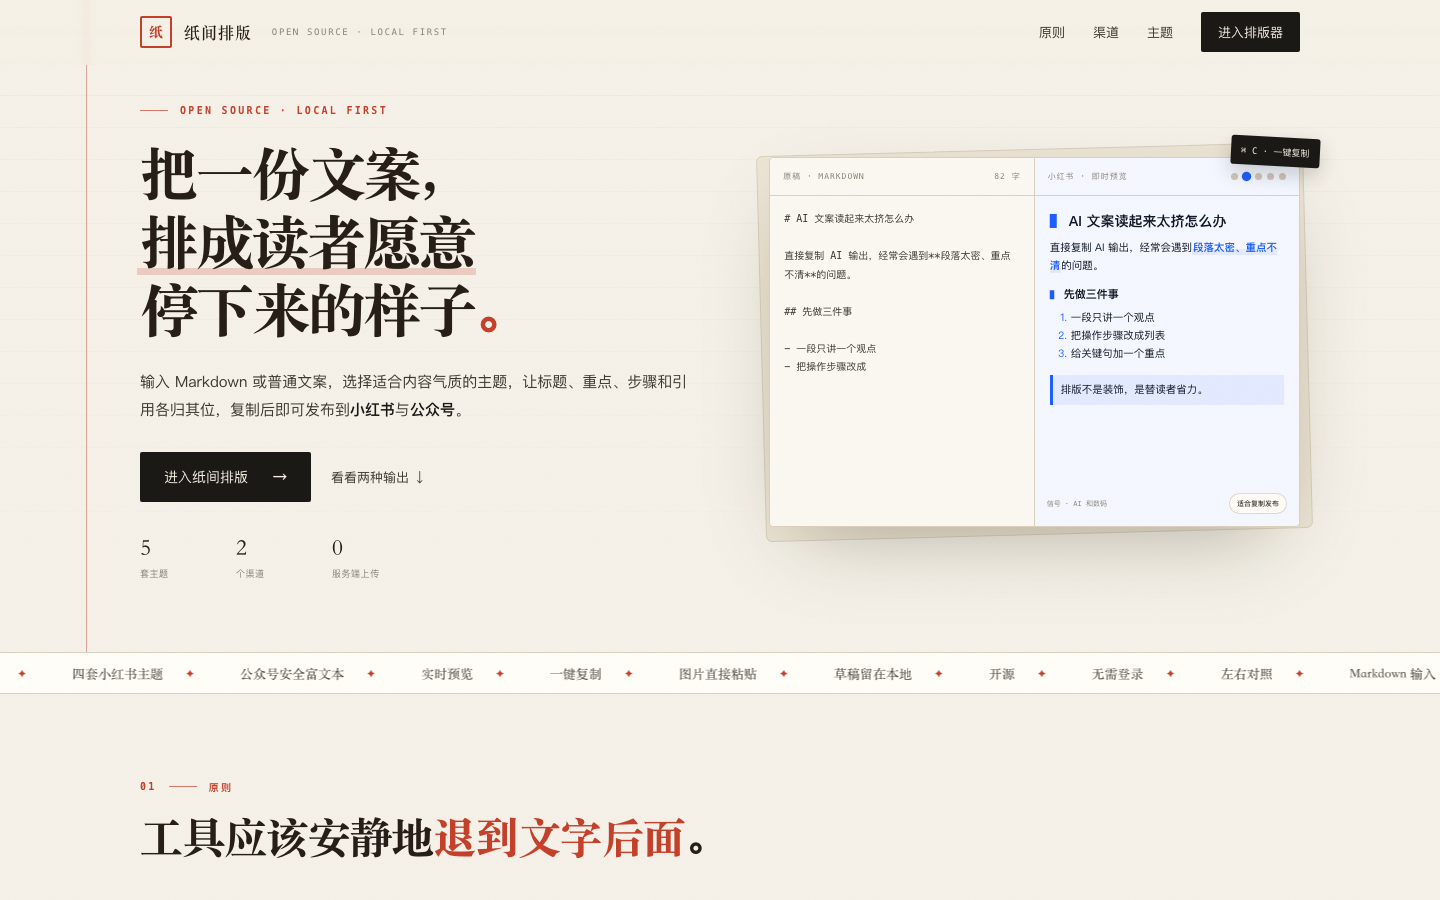
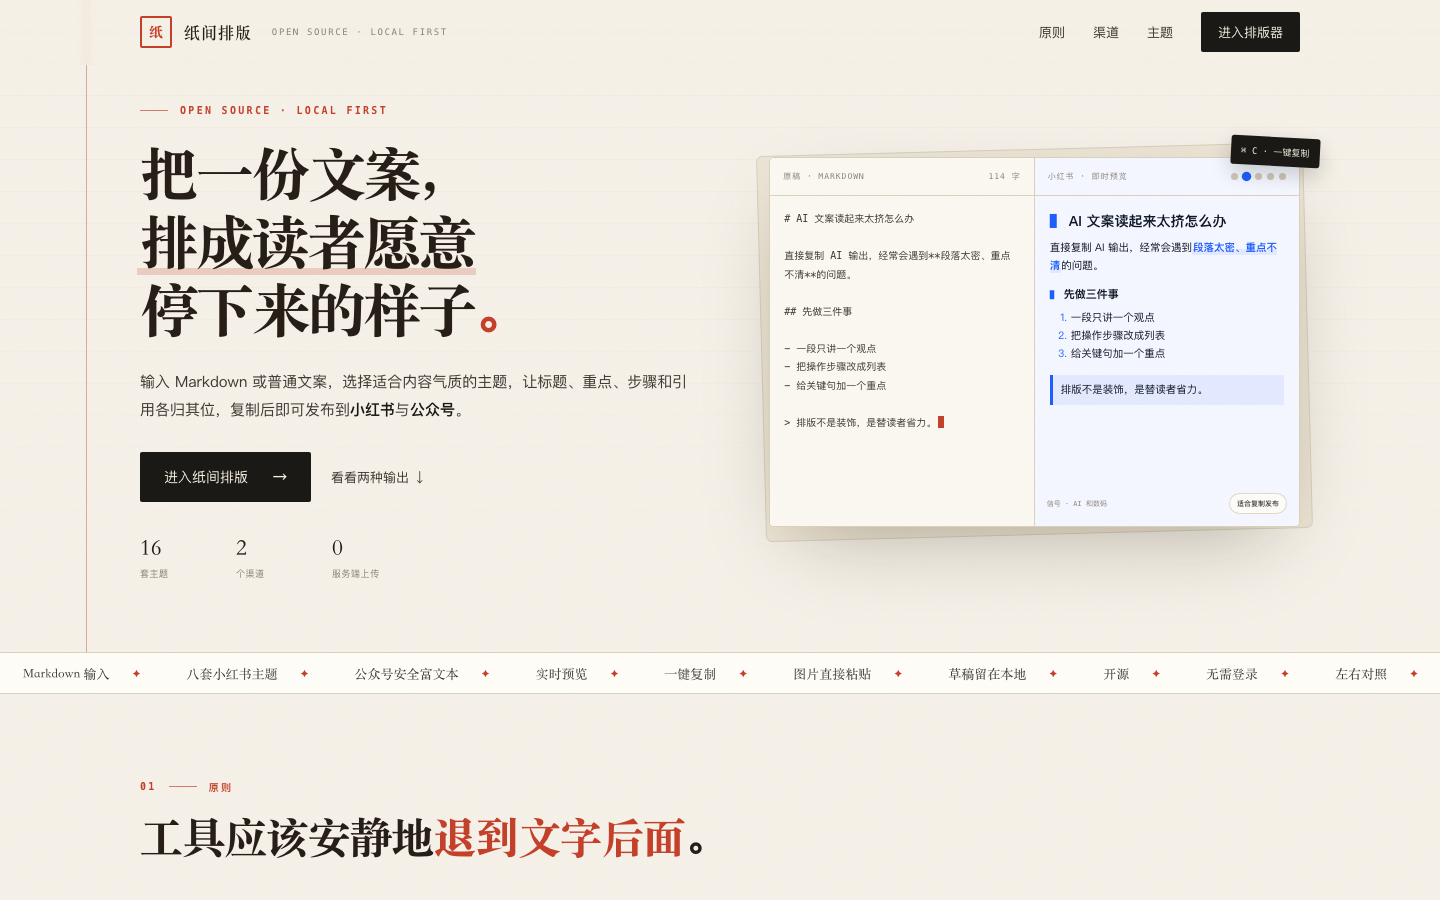
docs: 更新 README 主题一览与截图
- 新增小红书 8 套主题、公众号 8 套版式气质与 7 种标题样式对照表
- 重新截取首页、公众号桌面与移动端截图，新增样式工坊截图
- 修正 README 中与实现不符的描述，补充 Node.js 版本要求，克隆地址改为 HTTPS
- 纸间主题分隔线改用常见字体可显示的符号
- 首页主题数量改为 16 套
- CONTRIBUTING 补充新增版式气质与标题样式的步骤

diff --git a/src/core/themes.ts b/src/core/themes.ts
@@ -50,7 +50,7 @@ const themeDefinitions = [
       unorderedBullet: '·',
       orderedStyle: 'circled',
       quotePrefix: '纸间记｜',
-      divider: '𓂃 𓈒𓏸',
+      divider: '· ✧ · ✧ ·',
       strongOpen: '﹝',
       strongClose: '﹞',
       emphasisOpen: '（',

diff --git a/README.md b/README.md
@@ -10,9 +10,8 @@
 - 清简、信号、纸间、步序、元气、简报、札记、问答八套结构化排版主题
 - 小红书本地结构体检与一键整理，可撤销原始文案
 - 小红书标题、正文、话题分区复制与整篇复制
-- 微信公众号“编辑部手记”富文本主题与样式工坊
-- 8 套版式气质、7 种标题样式，可调字体、字号、行距、主题色和代码样式
-- 公众号可用 `==重点==` 添加选择性朱砂下划线，小红书输出会自动移除标记符号
+- 微信公众号富文本样式工坊：8 套版式气质、7 种标题样式，可再微调字体、字号、行距、主题色和代码明暗
+- 公众号可用 `==重点==` 添加主题色重点下划线，小红书输出会自动移除标记符号
 - 步骤教程、实用清单、产品测评三个内容模板
 - 标题、列表、任务列表、引用、重点、代码、表格、行内/引用式链接、图片说明、脚注和话题转换
 - 字数、段落、标题、话题统计；小红书按最终发布文本执行 1000 字门禁
@@ -23,17 +22,57 @@
 
 公众号输出使用经过约束的内联样式 HTML，剪贴板同时写入 `text/html` 与 `text/plain`，可直接粘贴到公众号编辑器继续调整。
 
-![公众号编辑部手记主题](./docs/wechat-editorial-desktop.png)
+![公众号排版工作台](./docs/wechat-editorial-desktop.png)
 
 <details>
   <summary>查看 375px 移动端公众号预览</summary>
   <img src="./docs/wechat-editorial-mobile.png" width="375" alt="纸间排版移动端公众号主题预览" />
 </details>
 
+## 主题一览
+
+### 小红书：8 套结构化主题
+
+小红书不支持颜色和字号，主题靠标题前缀、列表符号、强调括注和分隔线建立层级。下表是同一段 Markdown（小标题“小节”、加粗“关键”）在各主题下的实际输出：
+
+| 主题 | 适合 | 小标题 | 强调 | 无序 / 有序 | 引用 | 分隔线 |
+| --- | --- | --- | --- | --- | --- | --- |
+| 清简 | 知识、观点 | `01｜小节` | `「关键」` | `•` / `①` | `摘录｜` | `······` |
+| 信号 | AI、数码教程 | `▌ 小节` | `【关键】` | `→` / `❶` | `⌁ 提示｜` | `─── NOTE ───` |
+| 纸间 | 生活方式 | `✦ 小节` | `﹝关键﹞` | `·` / `①` | `纸间记｜` | `· ✧ · ✧ ·` |
+| 步序 | 清单、操作教程 | `步骤01｜小节` | `重点「关键」` | `✓` / `1⃣` | `注意｜` | `— 操作分隔 —` |
+| 元气 | 好物种草、探店 | `📍 小节` | `✨关键✨` | `✅` / `1⃣` | `💬 ` | `✨ ✨ ✨` |
+| 简报 | 职场干货、复盘 | `PART01 · 小节` | `『关键』` | `▸` / `1.` | `▍结论｜` | `━━━━━━━━` |
+| 札记 | 读书、随笔 | `§ 小节` | `〖关键〗` | `◦` / `1.` | `书摘｜` | `❀ ❀ ❀` |
+| 问答 | 科普、经验答疑 | `Q01. 小节` | `【关键】` | `◆` / `❶` | `A｜` | `· · · · · ·` |
+
+文首标题作为笔记标题，不占用小标题编号，正文小标题始终从 01 开始；符号类主题会保留标题符号。
+
+### 公众号：8 套版式气质 + 7 种标题样式
+
+样式工坊先选一套完整气质，再单独调整任一参数。所有样式都以内联 CSS 输出，粘贴到公众号编辑器后基本保持原样，发布前仍建议在手机预览中检查。
+
+| 版式气质 | 正文字体 | 字号 / 行距 | 主题色 | 标题样式 | 代码块 |
+| --- | --- | --- | --- | --- | --- |
+| 经典手记 | 无衬线 | 16 / 1.90 | 朱砂红 `#b44735` | 短线 | 深色墨块 |
+| 东方书页 | 无衬线 | 16 / 1.90 | 陶朱红 `#a84535` | 通栏 | 浅色纸面 |
+| 雅致长文 | 衬线 | 17 / 2.05 | 玫瑰金 `#a35f6f` | 通栏 | 浅色纸面 |
+| 清爽简报 | 无衬线 | 15 / 1.75 | 墨绿 `#2f6f68` | 侧标 | 浅色纸面 |
+| 技术蓝调 | 无衬线 | 15 / 1.75 | 经典蓝 `#185687` | 章签 | 深色墨块 |
+| 黑白杂志 | 衬线 | 16 / 1.90 | 石墨黑 `#363636` | 序号 | 浅色纸面 |
+| 森林笔记 | 无衬线 | 16 / 1.90 | 橄榄绿 `#5d7039` | 卡片 | 浅色纸面 |
+| 薰衣草信笺 | 衬线 | 17 / 2.05 | 薰衣紫 `#8d5c7d` | 留白 | 浅色纸面 |
+
+标题样式：短线、章签、侧标、通栏、留白、卡片、序号。预置主题色在白底上的对比度都不低于 4.5:1，也可以用取色器自定义。
+
+![公众号样式工坊](./docs/wechat-style-workshop.png)
+
 ## 快速开始
 
+需要 Node.js 22.12 或更高版本。
+
 ```bash
-git clone git@github.com:smilexiaobao1992/zhijian-copy-studio.git
+git clone https://github.com/smilexiaobao1992/zhijian-copy-studio.git
 cd zhijian-copy-studio
 npm install
 npm run dev
@@ -79,7 +118,7 @@ type ContentDocument = {
 
 | mdast 节点 | 小红书输出规则 |
 | --- | --- |
-| `heading` | 根据主题生成标题前缀，再渲染行内内容 |
+| `heading` | 根据主题生成标题前缀，再渲染行内内容；文首标题不占小标题编号 |
 | `paragraph` | 渲染文字、重点、链接、行内代码等行内节点 |
 | `list` / `listItem` | 根据有序、无序、任务状态选择主题标记，并保持嵌套缩进 |
 | `blockquote` | 给引用内容的每一行添加主题引用前缀 |
@@ -92,7 +131,7 @@ type ContentDocument = {
 
 行内渲染器支持 `text`、`strong`、`emphasis`、`delete`、`inlineCode`、`break`、`link`、`linkReference`、`image`、`imageReference` 和脚注引用。完整式、折叠式和快捷式引用链接都通过定义索引解析；链接保留可见文字和 URL，图片退化为可读的图片说明，不尝试上传或嵌入资源。
 
-公众号由 `renderWechat(document, theme, styleConfig, assets)` 遍历同一棵 mdast，生成带内联样式的标题、段落、步骤、引用、表格、代码块和脚注。`theme` 定义安全的基础视觉协议，`styleConfig` 只允许经过 Zod 校验的字体、字号、行距、六位十六进制主题色、标题样式和代码明暗。用户文字先进行 HTML 转义，行内链接与引用式链接都只允许 `http`、`https`、`mailto`、`tel` 和页内锚点协议；除用于表格换行的单个 `<br>` 外，原始 HTML 一律丢弃。编辑器支持选择图片或把剪贴板图片直接粘进 Markdown；图片保存在浏览器 IndexedDB，预览与复制时才通过受控的 `assets` 映射还原成自包含 `<img>`。远程图片仍只保留为插图位置说明，不在预览阶段加载。
+公众号由 `renderWechat(document, theme, styleConfig, assets)` 遍历同一棵 mdast，生成带内联样式的标题、段落、步骤、引用、表格、代码块和脚注。`theme` 定义安全的基础视觉协议，`styleConfig` 只允许经过 Zod 校验的字体、字号、行距、六位十六进制主题色、标题样式和代码明暗。用户文字先进行 HTML 转义，行内链接与引用式链接都只允许 `http`、`https`、`mailto`、`tel` 和页内锚点协议；除单个 `<br>` 换行外，原始 HTML 一律丢弃。编辑器支持选择图片或把剪贴板图片直接粘进 Markdown；图片保存在浏览器 IndexedDB，预览与复制时才通过受控的 `assets` 映射还原成自包含 `<img>`。远程图片仍只保留为插图位置说明，不在预览阶段加载。
 
 ### 3. 主题是经过校验的规则对象
 
@@ -104,7 +143,9 @@ type ContentDocument = {
   unorderedBullet: '→',
   orderedStyle: 'filled',
   quotePrefix: '⌁ 提示｜',
-  divider: '— · — · —'
+  divider: '─── NOTE ───',
+  strongOpen: '【',
+  strongClose: '】',
 }
 ```
 
@@ -156,7 +197,7 @@ Markdown ──> mdast ──┬──> render-xhs.ts     ──> 纯文本
 | 文档核心 | TypeScript + unified/remark：解析 mdast 和渠道渲染 |
 | 主题协议 | Zod：运行时校验主题配置与本地草稿结构 |
 | 性能策略 | `useDeferredValue` + `useMemo`：避免输入时重复计算 |
-| 本地存储 | `localStorage`：多笔记 V2、旧稿迁移、420ms 防抖与 JSON 备份 |
+| 本地存储 | `localStorage`：多笔记 V2、旧稿迁移、420ms 防抖与 JSON 备份；IndexedDB：本地图片 |
 | 样式系统 | CSS Modules + 全局设计 Token |
 | 质量保障 | Vitest + Astro Check + Playwright |
 
@@ -166,8 +207,8 @@ Markdown ──> mdast ──┬──> render-xhs.ts     ──> 纯文本
 
 ```text
 docs/                     README 截图等仓库资料
-src/core/                 文档解析、双渠道主题协议、渲染器与测试
-src/features/editor/      React 编辑工作台、模板和本地草稿
+src/core/                 文档解析、双渠道主题协议、内容模板、渲染器与测试
+src/features/editor/      React 编辑工作台、本地笔记与图片存储
 src/layouts/              SEO/GEO 元数据与页面壳
 src/pages/                Astro 页面、静态路由与发现文件
 src/styles/               全局 Token 与页面样式
@@ -218,9 +259,9 @@ SITE_URL=https://example.com npm run build
 
 ## Roadmap
 
-- 更多公众号主题与段落组件
-- 本地图片随 JSON 备份导出与恢复
-- 更多可组合主题与内容模板
+- 公众号段落组件（提示框、对比卡片、作者签名等）
+- 本地图片随 JSON 备份导出与恢复，删除笔记时清理无用图片
+- 更多内容模板
 - 主题配置导入、导出与社区共享
 
 ## License

diff --git a/CONTRIBUTING.md b/CONTRIBUTING.md
@@ -29,7 +29,7 @@
 
 主题定义位于 `src/core/wechat-themes.ts`，必须通过 `wechatThemeSchema` 校验。公众号主题只提供颜色与标签数据，不能拼接标签、事件属性或任意 CSS。
 
-样式工坊配置位于 `src/core/wechat-style.ts`，字体、字号、行距、标题和代码样式必须使用受限枚举，主题色必须是六位十六进制值。新增控件时应继续由 `render-wechat.ts` 掌握最终标签与内联样式，不允许把用户输入直接拼进 CSS。
+样式工坊配置位于 `src/core/wechat-style.ts`，字体、字号、行距、标题和代码样式必须使用受限枚举，主题色必须是六位十六进制值。新增版式气质时，同时在 `src/features/editor/EditorApp.module.css` 中补充对应的 `presetSample` 小样；新增标题样式时补充 `headingStyleGrid` 图标，并在 `ToolDrawer.tsx` 中加入按钮。预置主题色在白底上的对比度应不低于 4.5:1。新增控件时应继续由 `render-wechat.ts` 掌握最终标签与内联样式，不允许把用户输入直接拼进 CSS。
 
 提交前请确认：
 
